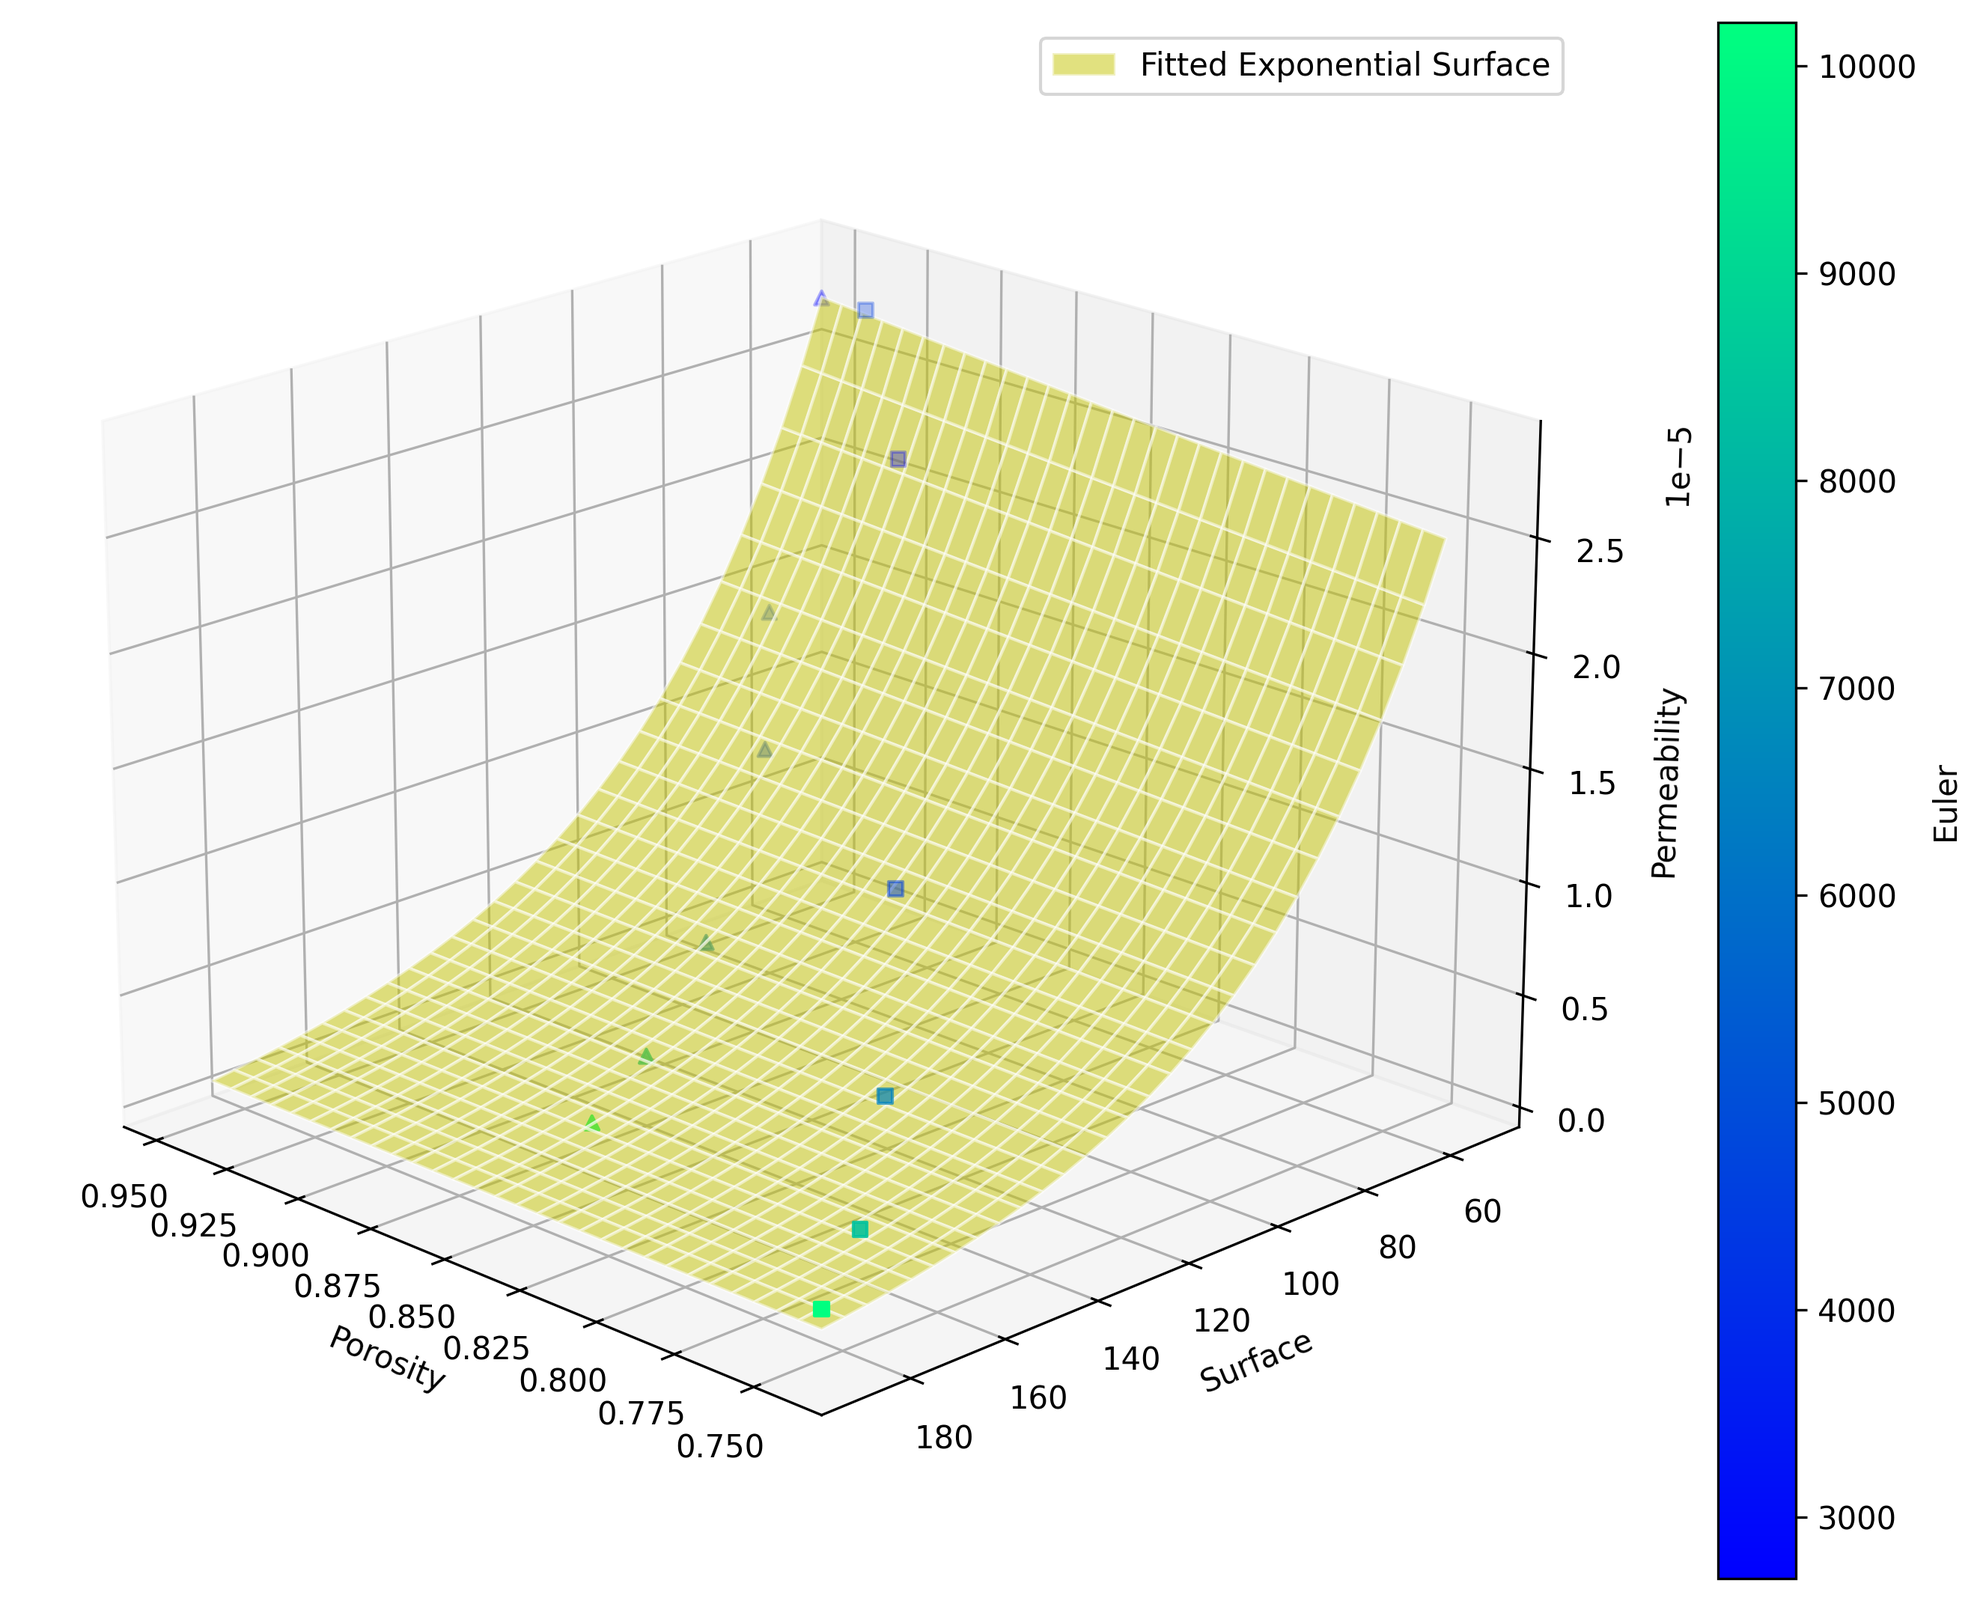
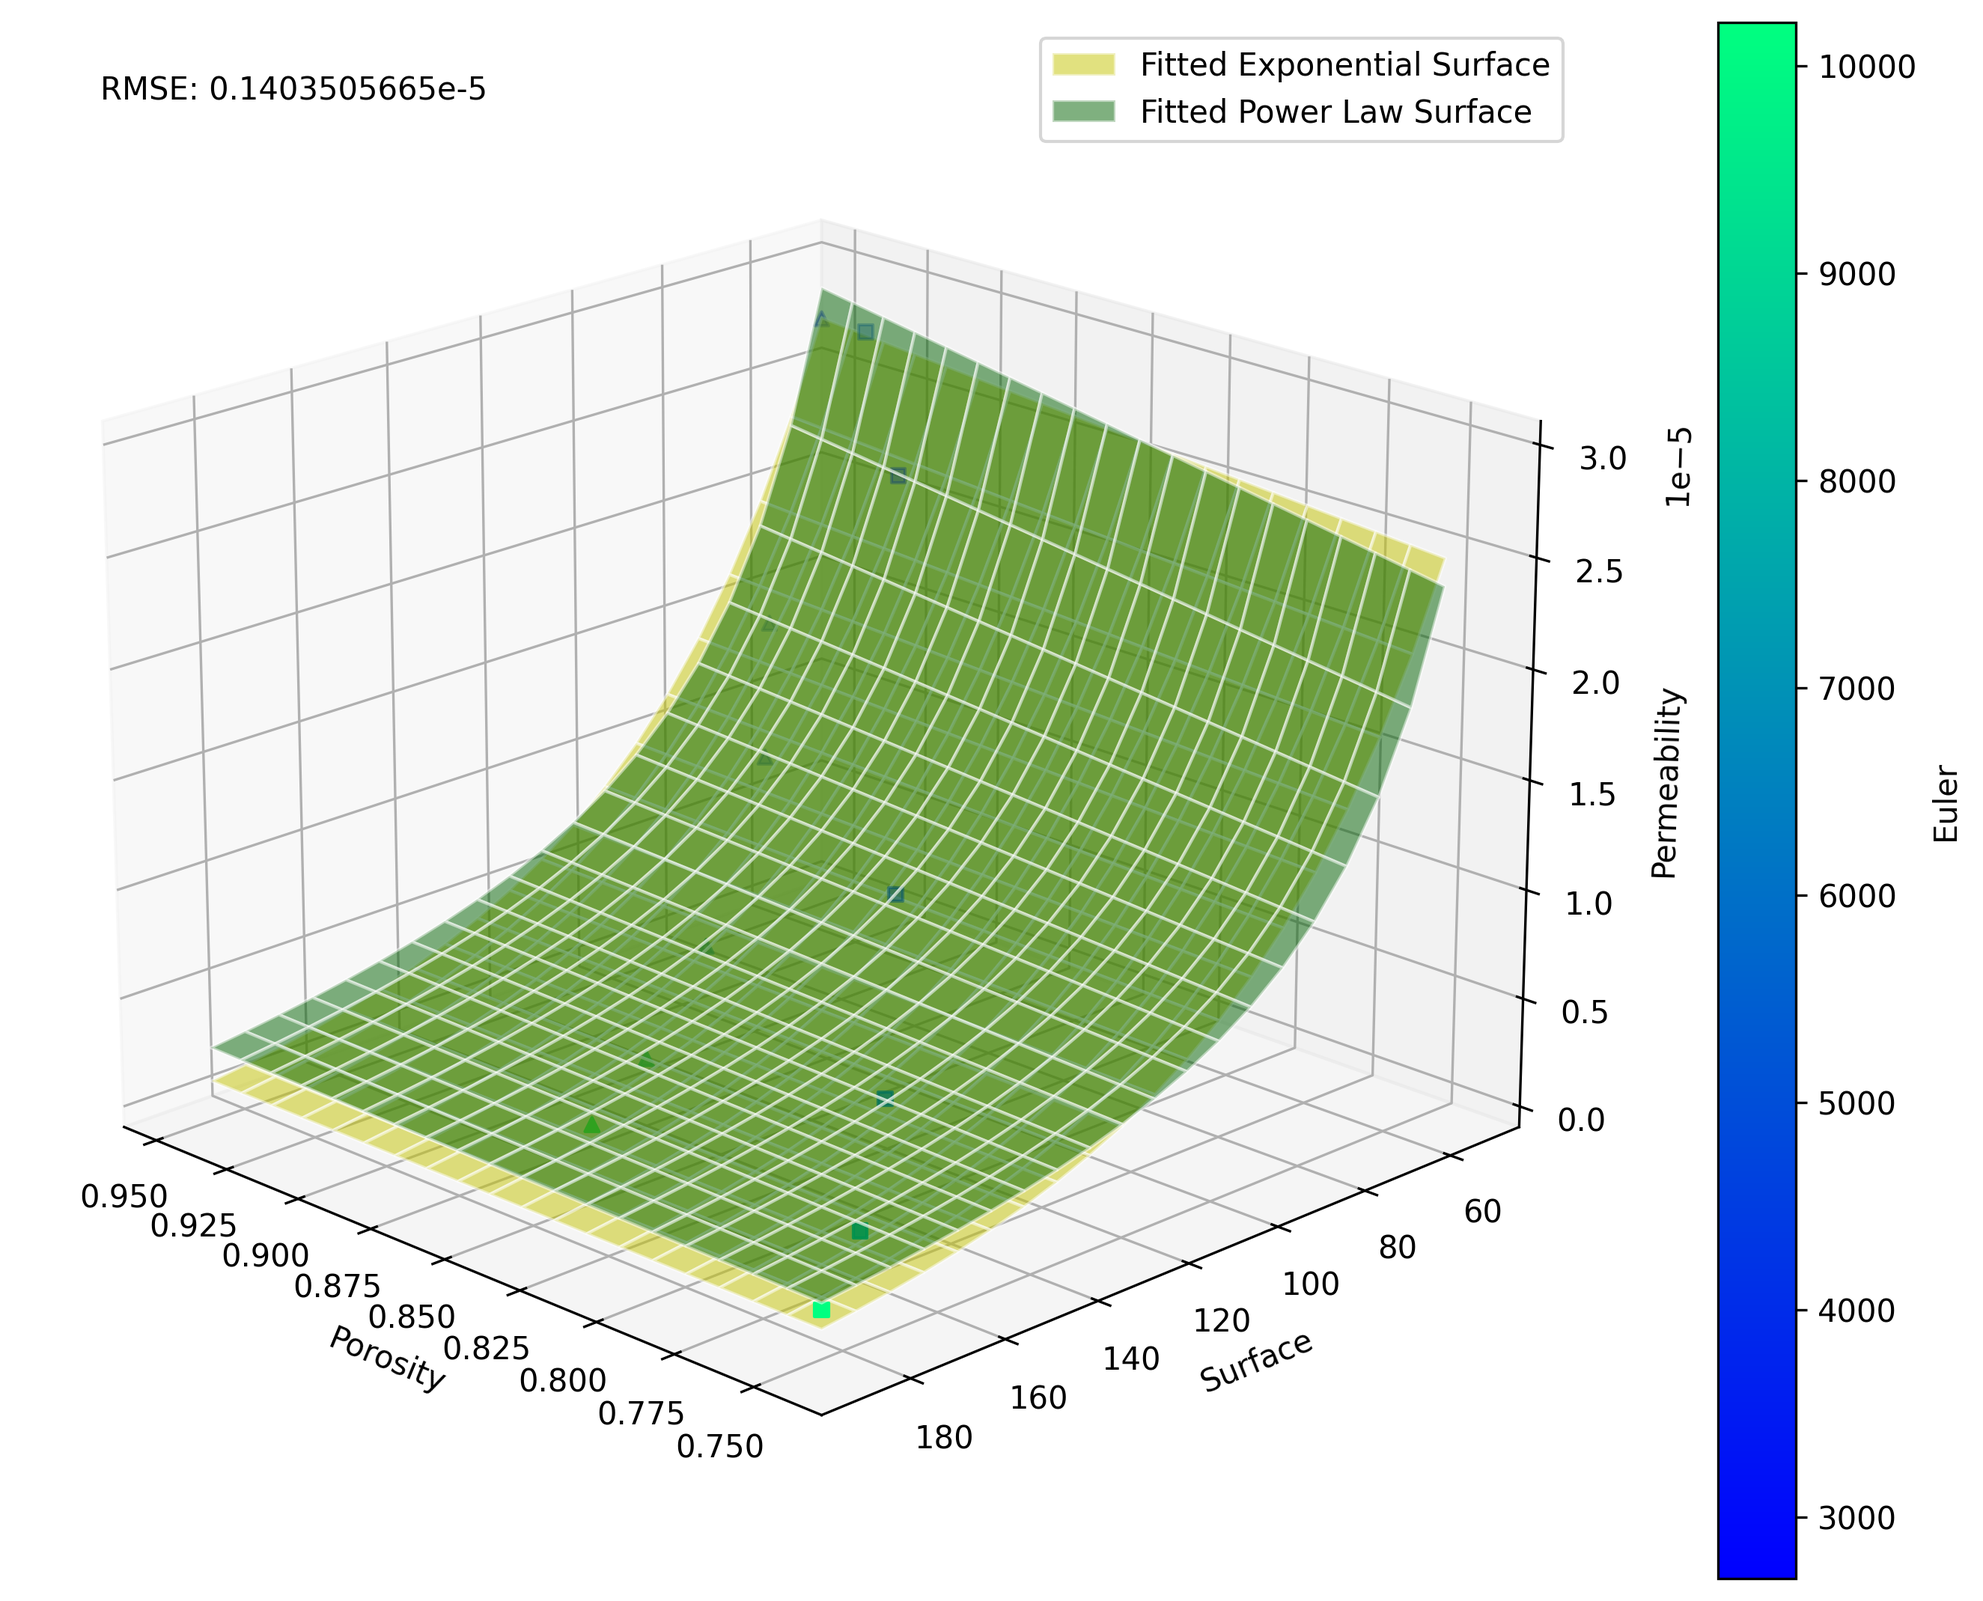
MARELE PUSH

diff --git a/3d_plots_no_ellipse.py b/3d_plots_no_ellipse.py
@@ -22,15 +22,13 @@ from sklearn.linear_model import LinearRegression
 from sklearn.metrics import mean_squared_error
 import scipy.optimize as opt
 plt.rcParams["figure.figsize"] = (16, 9)
-VARIANCE=True
+VARIANCE=False
 
 ################ READING ALL THE FILES IN THE FOLDER ################
 script_dir = os.path.dirname(__file__)
 sub_path = 'Heterogenous_samples'
 path = os.path.join(script_dir, sub_path)
-print(path)
 variance_path=os.path.join(script_dir, 'Summaries', sub_path)
-print(variance_path)
 # all_files = glob.glob(os.path.join(path, "*0.300*.csv"))
 all_files = glob.glob(os.path.join(path, "*rectangle*.csv"))
 df_from_each_file = (pd.read_csv(f).mean(axis=0).to_frame().T for f in all_files)
@@ -73,6 +71,8 @@ mean_permeability_triangle = variance_df_triangle['Permeability_mean']
 mean_surface_triangle = variance_df_triangle['Surface_mean']
 
 
+# concatenated_df_ellipse['Permeability'] = concatenated_df_ellipse['Permeability'] * 1e5
+# concatenated_df_ellipse['Energy'] = concatenated_df_ellipse['Energy'] * 1e5
 
 if (sub_path == 'Heterogenous_samples'):
         pass
@@ -142,6 +142,7 @@ concatenated_df_rectangle['Euler_total'] = 'Rectangle'
 concatenated_df_triangle['Euler_total'] = 'Triangle'
 
 concated_df = pd.concat([concatenated_df_rectangle, concatenated_df_triangle], ignore_index=True)
+print(concated_df)
 
 
 ############### PLOTS OF DATA POINTS THEMSELVES ################
@@ -177,7 +178,7 @@ X = concated_df[['Porosity', 'Surface']]
 y = concated_df['Euler_mean_vol']
 linear_model = LinearRegression()
 linear_model.fit(X, y)
-print(linear_model.coef_)
+# print(linear_model.coef_)
 
 
 z_grid = linear_model.predict(np.c_[x_grid.ravel(), y_grid.ravel()]).reshape(x_grid.shape)
@@ -219,13 +220,14 @@ def kozeny_carman_plot(m0, m1, m2, gamma):
 def kozeny_carman_new(lst, gamma):
     return lst[0]**3/(lst[1]**2*(lst[0]+lst[1]/(2*np.sqrt(lst[2])))*gamma)
 
-def kozeny_carman_new_plot(m0, m1, m2, gamma):
-    return m0**3/(m1**2*(m0+m1/(2*np.sqrt(m2)))*gamma)
+def kozeny_carman_new_plot(m0, m1, m2, km):
+    return m0**3/(m1**2*(m0+m1/(2*np.sqrt(m2)))*km)
+
+def find_km(m0, m1, m2, k):
+    return m0**3/(m1**2*(m0+m1/(2*np.sqrt(m2)))*k)
 
 xdata = [concated_df['Porosity'], concated_df['Surface'], concated_df['Euler_mean_vol']]
 ydata = concated_df['Permeability']
-
-
 
 
 ################ ORDER AND CALCULATE THE AVERAGE OF EVERY PF ################
@@ -273,8 +275,8 @@ average_xdata_interp = (xdata_rectangle_interpolated + xdata_triangle_interpolat
 average_ydata_interp = (ydata_rectangle_interpolated + ydata_triangle_interpolated) / 2
 #print(average_xdata_interp)
 
-################ PLOTTING INTERPOLATED SAMPLES ################
-# fig = plt.figure()
+    ################ PLOTTING INTERPOLATED SAMPLES ################
+    # fig = plt.figure()
 # ax = fig.add_subplot(111, projection='3d')
 # ax.scatter(xdata_rectangle_interpolated['Porosity'], xdata_rectangle_interpolated['Surface'], xdata_rectangle_interpolated['Euler_mean_vol'], c='b', marker='s', label='Rectangle')
 # ax.scatter(xdata_triangle_interpolated['Porosity'], xdata_triangle_interpolated['Surface'], xdata_triangle_interpolated['Euler_mean_vol'], c='r', marker='^', label='Triangle')
@@ -290,19 +292,21 @@ average_ydata_interp = (ydata_rectangle_interpolated + ydata_triangle_interpolat
 
 
 ################ APPLYING KOZENY-CARMAN ################
-popt_old, _ = opt.curve_fit(kozeny_carman, [average_xdata_interp['Porosity'], average_xdata_interp['Surface'], average_xdata_interp['Euler_mean_vol']], average_ydata_interp)
-popt_new, _ = opt.curve_fit(kozeny_carman_new, [average_xdata_interp['Porosity'], average_xdata_interp['Surface'], average_xdata_interp['Euler_mean_vol']], average_ydata_interp)
-klist_old= kozeny_carman_plot(average_xdata_interp['Porosity'], average_xdata_interp['Surface'], average_xdata_interp['Euler_mean_vol'], popt_old)
+average_xdata = (np.array(xdata_rectangle) + np.array(xdata_triangle)) / 2
+average_ydata = (np.array(ydata_rectangle) + np.array(ydata_triangle)) / 2
+
+popt_old, _ = opt.curve_fit(kozeny_carman, [average_xdata[0], average_xdata[1], average_xdata[2]], average_ydata)
+popt_new, _ = opt.curve_fit(kozeny_carman_new, [average_xdata[0], average_xdata[1], average_xdata[2]], average_ydata)
+k_old = kozeny_carman_plot(average_xdata_interp['Porosity'], average_xdata_interp['Surface'], average_xdata_interp['Euler_mean_vol'], popt_old)
+k_new = kozeny_carman_new_plot(average_xdata_interp['Porosity'], average_xdata_interp['Surface'], average_xdata_interp['Euler_mean_vol'], popt_new)
+k_new_evolution = kozeny_carman_new_plot(average_xdata[0], average_xdata[1], average_xdata[2], popt_new)
 print(popt_new)
-# k = kozeny_carman(xdata, popt)
-# k_rectangle = kozeny_carman(xdata_rectangle, popt)
-# k_triangle = kozeny_carman(xdata_triangle, popt)
-# k_ellipse = kozeny_carman(xdata_ellipse, popt)
-klist_new = kozeny_carman_new_plot(average_xdata_interp['Porosity'], average_xdata_interp['Surface'], average_xdata_interp['Euler_mean_vol'], popt_new)
 
+k_star = kozeny_carman_new_plot(average_xdata[0], average_xdata[1], average_xdata[2], 2.5)
 
-
-
+km_list = find_km(average_xdata[0], average_xdata[1], average_xdata[2], average_ydata)
+print(km_list)
+    
 
 
 ############### PLOTS OF KOZENY-CARMAN ################
@@ -311,8 +315,8 @@ ax = fig.add_subplot(111, projection='3d')
 all_colors = pd.concat([xdata_rectangle[2], xdata_triangle[2]])
 min_color = all_colors.min()
 max_color = all_colors.max()
-ax.plot(average_xdata_interp['Porosity'], average_xdata_interp['Surface'], klist_old, label='Kozeny-Carman Fit', color='y')
-ax.plot(average_xdata_interp['Porosity'], average_xdata_interp['Surface'], klist_new, label='New Kozeny-Carman Fit', color='r')
+ax.plot(average_xdata_interp['Porosity'], average_xdata_interp['Surface'], k_old, label='Kozeny-Carman Fit', color='y')
+ax.plot(average_xdata_interp['Porosity'], average_xdata_interp['Surface'], k_new, label='New Kozeny-Carman Fit', color='r')
 sc1 = ax.scatter(xdata_rectangle[0], xdata_rectangle[1], ydata_rectangle, c=xdata_rectangle[2], marker='s', cmap='winter', vmin=min_color, vmax=max_color)
 sc2 = ax.scatter(xdata_triangle[0], xdata_triangle[1], ydata_triangle, c=xdata_triangle[2], marker='^', cmap='winter', vmin=min_color, vmax=max_color)
 cbar = plt.colorbar(sc1, ax=ax, label='Euler')
@@ -377,7 +381,6 @@ Z = concated_df['Permeability']
 popt_exp, _ = opt.curve_fit(exponential_surface, XY, Z, p0=(1, 0.01, 0.01))  # Initial guesses for a, b, c
 popt_poly, _ = opt.curve_fit(cubic_surface, XY, Z, p0=(1, 1, 1, 1, 1, 1))  # Initial guesses for a, b, c, d, e, f
 popt_power, _ = opt.curve_fit(power_law, XY, Z, p0=(1, 2, 2))  # Initial guesses for a, b, c
-print(popt_exp)
 
 # Extract optimal parameters
 a_exp, b_exp, c_exp = popt_exp
@@ -435,3 +438,30 @@ ax.text2D(0.05, 0.95, f"RMSE: {10**5*rmse:.10f}e-5", transform=ax.transAxes)
 
 plt.savefig(os.path.join(path, 'kozeny_surface.png'), dpi=300, bbox_inches='tight', pad_inches=0.1)
 plt.show()
+
+
+
+############# EVOLUTION OF KM WITH POROSITY #############
+fig = plt.figure()
+ax = fig.add_subplot()
+ax.scatter(average_xdata[0], km_list, label='Kozeny-Carman')
+ax.set_xlabel('Porosity')
+ax.set_ylabel('k_m')
+plt.legend()
+plt.savefig(os.path.join(path, 'km_evolution.png'), dpi=300, bbox_inches='tight', pad_inches=0.1)
+plt.show()
+
+fig = plt.figure()
+ax = fig.add_subplot()
+ax.scatter(average_xdata[0], average_ydata)
+ax.semilogy(average_xdata[0], k_new_evolution, label='fitted')
+ax.semilogy(average_xdata[0], k_star, label='theoretical')
+ax.set_xlabel('Porosity')
+ax.set_ylabel('k')
+plt.legend()
+plt.savefig(os.path.join(path, 'fitted_theoretical.png'), dpi=300, bbox_inches='tight', pad_inches=0.1)
+plt.show()
+
+
+
+

diff --git a/3d_plots.py b/3d_plots.py
@@ -23,7 +23,7 @@ from sklearn.linear_model import LinearRegression
 from sklearn.metrics import mean_squared_error
 import scipy.optimize as opt
 plt.rcParams["figure.figsize"] = (16, 9)
-VARIANCE=True
+VARIANCE=False
 
 # Folder options are: 
 # Threshold_homogenous_diamater_wide_RCP                8000
@@ -32,11 +32,9 @@ VARIANCE=True
 
 ################ READING ALL THE FILES IN THE FOLDER ################
 script_dir = os.path.dirname(__file__)
-sub_path = 'Threshold_homogenous_diamater_small_RCP'
+sub_path = 'Porespy_homogenous_diamater'
 path = os.path.join(script_dir, sub_path)
-print(path)
 variance_path=os.path.join(script_dir, 'Summaries', sub_path)
-print(variance_path)
 # all_files = glob.glob(os.path.join(path, "*0.300*.csv"))
 all_files = glob.glob(os.path.join(path, "*rectangle*.csv"))
 df_from_each_file = (pd.read_csv(f).mean(axis=0).to_frame().T for f in all_files)
@@ -191,7 +189,7 @@ X = concated_df[['Porosity', 'Surface']]
 y = concated_df['Euler_mean_vol']
 linear_model = LinearRegression()
 linear_model.fit(X, y)
-print(linear_model.coef_)
+# print(linear_model.coef_)
 
 
 z_grid = linear_model.predict(np.c_[x_grid.ravel(), y_grid.ravel()]).reshape(x_grid.shape)
@@ -234,13 +232,14 @@ def kozeny_carman_plot(m0, m1, m2, gamma):
 def kozeny_carman_new(lst, gamma):
     return lst[0]**3/(lst[1]**2*(lst[0]+lst[1]/(2*np.sqrt(lst[2])))*gamma)
 
-def kozeny_carman_new_plot(m0, m1, m2, gamma):
-    return m0**3/(m1**2*(m0+m1/(2*np.sqrt(m2)))*gamma)
+def kozeny_carman_new_plot(m0, m1, m2, km):
+    return m0**3/(m1**2*(m0+m1/(2*np.sqrt(m2)))*km)
+
+def find_km(m0, m1, m2, k):
+    return m0**3/(m1**2*(m0+m1/(2*np.sqrt(m2)))*k)
 
 xdata = [concated_df['Porosity'], concated_df['Surface'], concated_df['Euler_mean_vol']]
 ydata = concated_df['Permeability']
-
-
 
 
 ################ ORDER AND CALCULATE THE AVERAGE OF EVERY PF ################
@@ -293,8 +292,8 @@ average_xdata_interp = (xdata_rectangle_interpolated + xdata_triangle_interpolat
 average_ydata_interp = (ydata_rectangle_interpolated + ydata_triangle_interpolated + ydata_ellipse_interpolated) / 3
 #print(average_xdata_interp)
 
-################ PLOTTING INTERPOLATED SAMPLES ################
-# fig = plt.figure()
+    ################ PLOTTING INTERPOLATED SAMPLES ################
+    # fig = plt.figure()
 # ax = fig.add_subplot(111, projection='3d')
 # ax.scatter(xdata_rectangle_interpolated['Porosity'], xdata_rectangle_interpolated['Surface'], xdata_rectangle_interpolated['Euler_mean_vol'], c='b', marker='s', label='Rectangle')
 # ax.scatter(xdata_triangle_interpolated['Porosity'], xdata_triangle_interpolated['Surface'], xdata_triangle_interpolated['Euler_mean_vol'], c='r', marker='^', label='Triangle')
@@ -310,19 +309,21 @@ average_ydata_interp = (ydata_rectangle_interpolated + ydata_triangle_interpolat
 
 
 ################ APPLYING KOZENY-CARMAN ################
-popt_old, _ = opt.curve_fit(kozeny_carman, [average_xdata_interp['Porosity'], average_xdata_interp['Surface'], average_xdata_interp['Euler_mean_vol']], average_ydata_interp)
-popt_new, _ = opt.curve_fit(kozeny_carman_new, [average_xdata_interp['Porosity'], average_xdata_interp['Surface'], average_xdata_interp['Euler_mean_vol']], average_ydata_interp)
-klist_old= kozeny_carman_plot(average_xdata_interp['Porosity'], average_xdata_interp['Surface'], average_xdata_interp['Euler_mean_vol'], popt_old)
+average_xdata = (np.array(xdata_rectangle) + np.array(xdata_triangle) + np.array(xdata_ellipse)) / 3
+average_ydata = (np.array(ydata_rectangle) + np.array(ydata_triangle) + np.array(ydata_ellipse)) / 3
+
+popt_old, _ = opt.curve_fit(kozeny_carman, [average_xdata[0], average_xdata[1], average_xdata[2]], average_ydata)
+popt_new, _ = opt.curve_fit(kozeny_carman_new, [average_xdata[0], average_xdata[1], average_xdata[2]], average_ydata)
+k_old = kozeny_carman_plot(average_xdata_interp['Porosity'], average_xdata_interp['Surface'], average_xdata_interp['Euler_mean_vol'], popt_old)
+k_new = kozeny_carman_new_plot(average_xdata_interp['Porosity'], average_xdata_interp['Surface'], average_xdata_interp['Euler_mean_vol'], popt_new)
+k_new_evolution = kozeny_carman_new_plot(average_xdata[0], average_xdata[1], average_xdata[2], popt_new)
 print(popt_new)
-# k = kozeny_carman(xdata, popt)
-# k_rectangle = kozeny_carman(xdata_rectangle, popt)
-# k_triangle = kozeny_carman(xdata_triangle, popt)
-# k_ellipse = kozeny_carman(xdata_ellipse, popt)
-klist_new = kozeny_carman_new_plot(average_xdata_interp['Porosity'], average_xdata_interp['Surface'], average_xdata_interp['Euler_mean_vol'], popt_new)
 
+k_star = kozeny_carman_new_plot(average_xdata[0], average_xdata[1], average_xdata[2], 2.5)
 
-
-
+km_list = find_km(average_xdata[0], average_xdata[1], average_xdata[2], average_ydata)
+print(km_list)
+    
 
 
 ############### PLOTS OF KOZENY-CARMAN ################
@@ -331,8 +332,8 @@ ax = fig.add_subplot(111, projection='3d')
 all_colors = pd.concat([xdata_rectangle[2], xdata_triangle[2], xdata_ellipse[2]])
 min_color = all_colors.min()
 max_color = all_colors.max()
-ax.plot(average_xdata_interp['Porosity'], average_xdata_interp['Surface'], klist_old, label='Kozeny-Carman Fit', color='y')
-ax.plot(average_xdata_interp['Porosity'], average_xdata_interp['Surface'], klist_new, label='New Kozeny-Carman Fit', color='r')
+ax.plot(average_xdata_interp['Porosity'], average_xdata_interp['Surface'], k_old, label='Kozeny-Carman Fit', color='y')
+ax.plot(average_xdata_interp['Porosity'], average_xdata_interp['Surface'], k_new, label='New Kozeny-Carman Fit', color='r')
 sc1 = ax.scatter(xdata_rectangle[0], xdata_rectangle[1], ydata_rectangle, c=xdata_rectangle[2], marker='s', cmap='winter', vmin=min_color, vmax=max_color)
 sc2 = ax.scatter(xdata_triangle[0], xdata_triangle[1], ydata_triangle, c=xdata_triangle[2], marker='^', cmap='winter', vmin=min_color, vmax=max_color)
 sc3 = ax.scatter(xdata_ellipse[0], xdata_ellipse[1], ydata_ellipse, c=xdata_ellipse[2], marker='o', cmap='winter', vmin=min_color, vmax=max_color)
@@ -398,7 +399,6 @@ Z = concated_df['Permeability']
 popt_exp, _ = opt.curve_fit(exponential_surface, XY, Z, p0=(1, 0.01, 0.01))  # Initial guesses for a, b, c
 popt_poly, _ = opt.curve_fit(cubic_surface, XY, Z, p0=(1, 1, 1, 1, 1, 1))  # Initial guesses for a, b, c, d, e, f
 popt_power, _ = opt.curve_fit(power_law, XY, Z, p0=(1, 2, 2))  # Initial guesses for a, b, c
-print(popt_exp)
 
 # Extract optimal parameters
 a_exp, b_exp, c_exp = popt_exp
@@ -456,4 +456,27 @@ plt.legend()
 ax.text2D(0.05, 0.95, f"RMSE: {10**5*rmse:.10f}e-5", transform=ax.transAxes)
 
 plt.savefig(os.path.join(path, 'kozeny_surface.png'), dpi=300, bbox_inches='tight', pad_inches=0.1)
+plt.show()
+
+
+
+############# EVOLUTION OF KM WITH POROSITY #############
+fig = plt.figure()
+ax = fig.add_subplot()
+ax.scatter(average_xdata[0], km_list, label='Kozeny-Carman')
+ax.set_xlabel('Porosity')
+ax.set_ylabel('k_m')
+plt.legend()
+plt.savefig(os.path.join(path, 'km_evolution.png'), dpi=300, bbox_inches='tight', pad_inches=0.1)
+plt.show()
+
+fig = plt.figure()
+ax = fig.add_subplot()
+ax.scatter(average_xdata[0], average_ydata)
+ax.semilogy(average_xdata[0], k_new_evolution, label='fitted')
+ax.semilogy(average_xdata[0], k_star, label='theoretical')
+ax.set_xlabel('Porosity')
+ax.set_ylabel('k')
+plt.legend()
+plt.savefig(os.path.join(path, 'fitted_theoretical.png'), dpi=300, bbox_inches='tight', pad_inches=0.1)
 plt.show()

diff --git a/KC_data_analysis 1.py b/KC_data_analysis 1.py
@@ -65,6 +65,8 @@ for i, sol in enumerate(k):
     kopt, kcov = curve_fit(KC_model, (M_0[i], M_1[i], M_2[i]), [sol])
     km_vals.append(kopt)
 
+print(km_vals)
+
 # Testing vals
 M_0_hat = np.linspace(np.min(M_0), np.max(M_0), 100)
 M_1_hat = np.linspace(np.min(M_1), np.max(M_1), 100)
